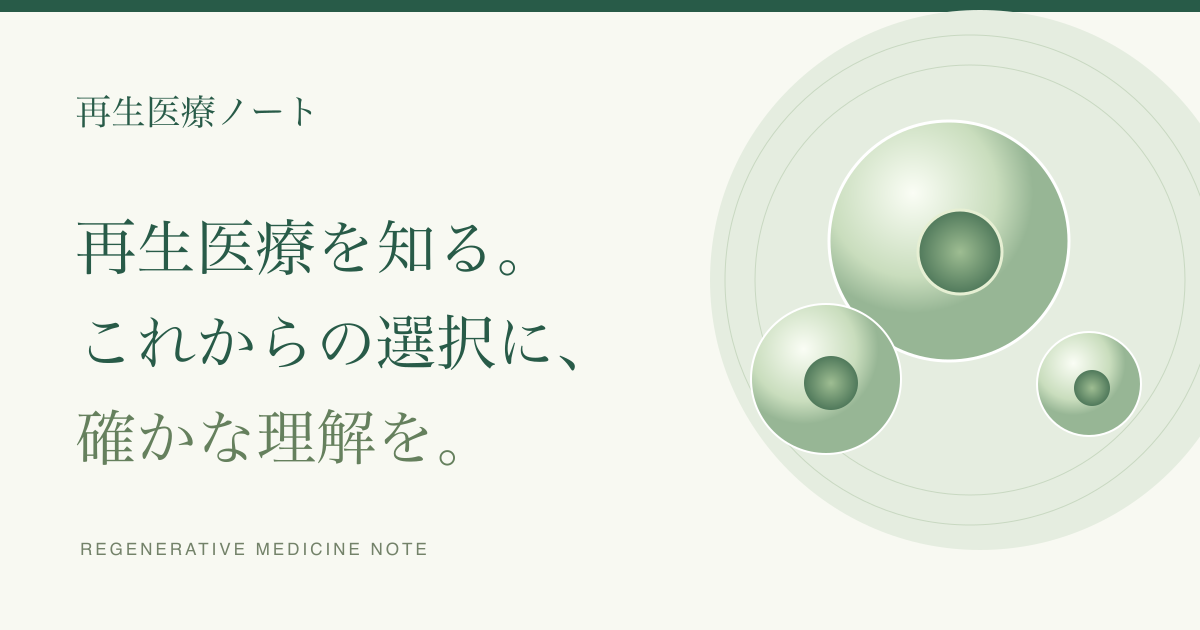
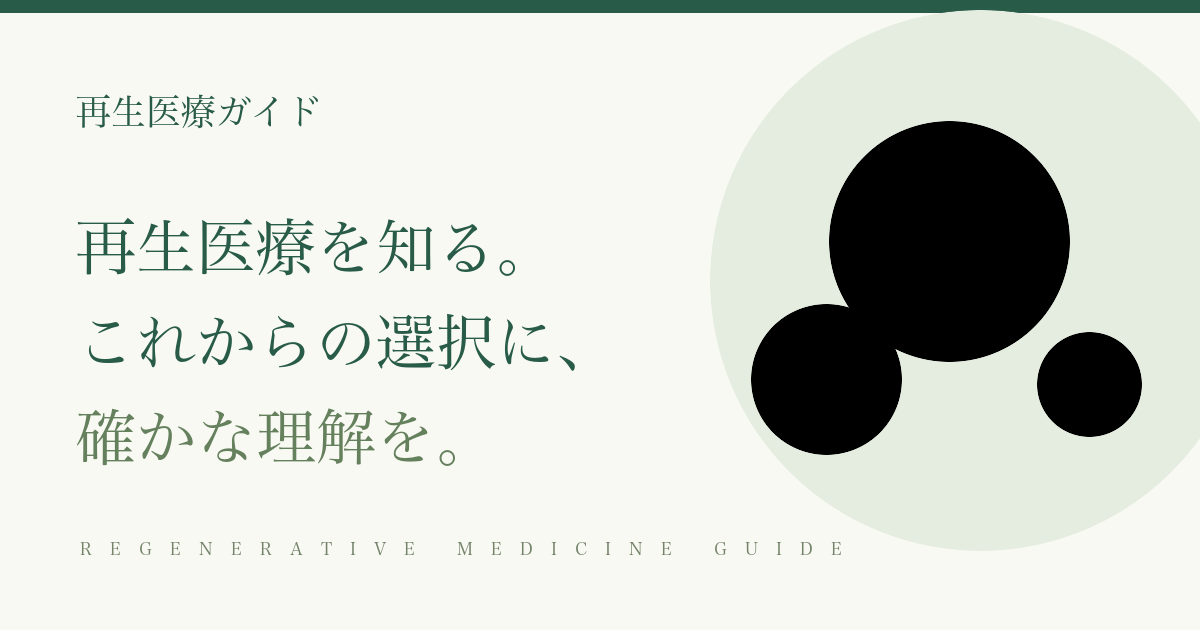
Rename site to regenerative medicine guide

diff --git a/src/content/locales.ts b/src/content/locales.ts
@@ -33,9 +33,9 @@ export const localizedArticle: Record<"en" | "zh", LocalizedArticle> = {
 
 export const localizedShell = {
   en: {
-    logoName: "Regenerative Medicine Note", logoAria: "Regenerative Medicine Note home", tagline: "Clearer information for your next medical decision.", preview: "Preview · manuscripts are awaiting medical review", promise: "One careful step at a time.", editorial: "Editorial policy", supervision: "Medical review", search: "Find articles", searchAria: "Find articles", home: "Home", about: "About this site", basics: "The basics", stemCells: "Stem cells", treatment: "Considering treatment", research: "Research & news", menu: "Open menu", guide: "Getting started", glossary: "Glossary", faq: "FAQ", safety: "Safety", regulation: "Rules & systems", advertising: "Advertising", terms: "Terms of use", privacy: "Privacy policy", disclaimer: "Important notice", contact: "Contact", updates: "Updates", corrections: "Corrections & updates", citations: "Citations & reuse", accessibility: "Accessibility", siteGuide: "Site guide", footerLead: "Understanding comes before choice.\nA careful note connecting regenerative medicine with people.", footerDisclaimer: "This site provides general information and is not a substitute for diagnosis or treatment. Please consult a qualified healthcare professional.", copyright: "KNOWLEDGE FOR YOUR NEXT STEP.",
+    logoName: "Regenerative Medicine Guide", logoAria: "Regenerative Medicine Guide home", tagline: "Clearer information for your next medical decision.", preview: "Preview · manuscripts are awaiting medical review", promise: "One careful step at a time.", editorial: "Editorial policy", supervision: "Medical review", search: "Find articles", searchAria: "Find articles", home: "Home", about: "About this site", basics: "The basics", stemCells: "Stem cells", treatment: "Considering treatment", research: "Research & news", menu: "Open menu", guide: "Getting started", glossary: "Glossary", faq: "FAQ", safety: "Safety", regulation: "Rules & systems", advertising: "Advertising", terms: "Terms of use", privacy: "Privacy policy", disclaimer: "Important notice", contact: "Contact", updates: "Updates", corrections: "Corrections & updates", citations: "Citations & reuse", accessibility: "Accessibility", siteGuide: "Site guide", footerLead: "Understanding comes before choice.\nA careful guide connecting regenerative medicine with people.", footerDisclaimer: "This site provides general information and is not a substitute for diagnosis or treatment. Please consult a qualified healthcare professional.", copyright: "KNOWLEDGE FOR YOUR NEXT STEP.",
   },
   zh: {
-    logoName: "再生医学笔记", logoAria: "再生医学笔记首页", tagline: "为下一步医疗决定提供清晰的信息。", preview: "预览版 · 原稿正在等待医学审核", promise: "一步一步，谨慎理解。", editorial: "编辑方针", supervision: "医学审核", search: "查找文章", searchAria: "查找文章", home: "首页", about: "关于本网站", basics: "再生医学基础", stemCells: "认识干细胞", treatment: "考虑治疗时", research: "研究与新闻", menu: "打开菜单", guide: "入门指南", glossary: "术语表", faq: "常见问题", safety: "安全性", regulation: "制度与法规", advertising: "广告刊登", terms: "使用条款", privacy: "隐私政策", disclaimer: "重要说明", contact: "联系我们", updates: "更新信息", corrections: "勘误与更新", citations: "引用与转载", accessibility: "无障碍", siteGuide: "网站地图", footerLead: "充分了解，是做出选择的第一步。\n连接再生医学与每个人的谨慎笔记。", footerDisclaimer: "本网站提供一般性信息，不能替代诊断或治疗。涉及个人医疗决定时，请咨询有资质的医疗专业人员。", copyright: "KNOWLEDGE FOR YOUR NEXT STEP.",
+    logoName: "再生医学指南", logoAria: "再生医学指南首页", tagline: "为下一步医疗决定提供清晰的信息。", preview: "预览版 · 原稿正在等待医学审核", promise: "一步一步，谨慎理解。", editorial: "编辑方针", supervision: "医学审核", search: "查找文章", searchAria: "查找文章", home: "首页", about: "关于本网站", basics: "再生医学基础", stemCells: "认识干细胞", treatment: "考虑治疗时", research: "研究与新闻", menu: "打开菜单", guide: "入门指南", glossary: "术语表", faq: "常见问题", safety: "安全性", regulation: "制度与法规", advertising: "广告刊登", terms: "使用条款", privacy: "隐私政策", disclaimer: "重要说明", contact: "联系我们", updates: "更新信息", corrections: "勘误与更新", citations: "引用与转载", accessibility: "无障碍", siteGuide: "网站地图", footerLead: "充分了解，是做出选择的第一步。\n连接再生医学与每个人的谨慎指南。", footerDisclaimer: "本网站提供一般性信息，不能替代诊断或治疗。涉及个人医疗决定时，请咨询有资质的医疗专业人员。", copyright: "KNOWLEDGE FOR YOUR NEXT STEP.",
   },
 } as const;

diff --git a/src/components/localized-info.tsx b/src/components/localized-info.tsx
@@ -11,6 +11,6 @@ export function infoTitleFor(locale: SiteLocale, slug: InfoSlug) { return labels
 export function LocalizedInfo({ locale, slug }: { locale: SiteLocale; slug: InfoSlug }) {
   const en = locale === "en";
   const title = labels[locale][slug];
-  const sections = en ? [["Purpose and scope", "This page explains how Regenerative Medicine Note prepares and presents information about regenerative medicine and stem cells.", "Medical information can change. We distinguish general education from personal diagnosis or treatment advice."], ["Evidence and transparency", "Editorial manuscripts identify evidence, limitations, uncertainty, and the questions a reader may wish to ask a healthcare professional.", "Advertising and editorial decisions are kept separate. Any future sponsorship will be labelled clearly."], ["Reader safety", "Do not begin, stop, or change treatment based only on this website. Discuss personal circumstances with a qualified healthcare professional and check current official sources.", "If you notice an error or a wording that could cause misunderstanding, please contact the editorial team."]] : [["目的与范围", "本页面说明“再生医学笔记”如何整理和呈现再生医学与干细胞相关信息。", "医学信息可能发生变化。我们会区分一般性知识与个人诊断、治疗建议。"], ["证据与透明度", "编辑原稿会说明证据、局限性、不确定性，以及读者可以向医疗专业人员询问的问题。", "广告与编辑决定分开管理。今后如有赞助，会清楚标明。"], ["读者安全", "不要仅根据本网站开始、停止或改变治疗。涉及个人情况时，请咨询有资质的医疗专业人员，并确认最新官方资料。", "如果发现错误或可能造成误解的表述，请联系编辑团队。"]];
+  const sections = en ? [["Purpose and scope", "This page explains how Regenerative Medicine Guide prepares and presents information about regenerative medicine and stem cells.", "Medical information can change. We distinguish general education from personal diagnosis or treatment advice."], ["Evidence and transparency", "Editorial manuscripts identify evidence, limitations, uncertainty, and the questions a reader may wish to ask a healthcare professional.", "Advertising and editorial decisions are kept separate. Any future sponsorship will be labelled clearly."], ["Reader safety", "Do not begin, stop, or change treatment based only on this website. Discuss personal circumstances with a qualified healthcare professional and check current official sources.", "If you notice an error or a wording that could cause misunderstanding, please contact the editorial team."]] : [["目的与范围", "本页面说明“再生医学指南”如何整理和呈现再生医学与干细胞相关信息。", "医学信息可能发生变化。我们会区分一般性知识与个人诊断、治疗建议。"], ["证据与透明度", "编辑原稿会说明证据、局限性、不确定性，以及读者可以向医疗专业人员询问的问题。", "广告与编辑决定分开管理。今后如有赞助，会清楚标明。"], ["读者安全", "不要仅根据本网站开始、停止或改变治疗。涉及个人情况时，请咨询有资质的医疗专业人员，并确认最新官方资料。", "如果发现错误或可能造成误解的表述，请联系编辑团队。"]];
   return <div className="container inner-page localized-article"><div className="page-heading"><span className="eyebrow">{en ? "INFORMATION" : "信息"}</span><h1>{title}</h1><p>{en ? "A transparent guide to how this medical information site is operated." : "关于本医疗信息网站运营方式的透明说明。"}</p></div><div className="prose">{sections.map(([heading, first, second]) => <section key={heading}><h2>{heading}</h2><p>{first}</p><p>{second}</p></section>)}</div><div className="policy-callout"><h2>{en ? "Related pages" : "相关页面"}</h2><p><Link href={`/${locale}/articles/`}>{en ? "Browse translated articles" : "浏览中文文章"} →</Link></p><p><Link href={`/${locale}/`}>{en ? "Back to the home page" : "返回首页"} →</Link></p></div></div>;
 }

diff --git a/src/components/site-shell.tsx b/src/components/site-shell.tsx
@@ -22,13 +22,13 @@ function localizedHomePath(locale: SiteLocale | "ja") {
 export function Logo({ locale = "ja" }: { locale?: SiteLocale | "ja" }) {
   const copy = locale === "ja" ? null : localizedShell[locale];
   return (
-    <Link href={localizedHomePath(locale)} className={`logo ${locale === "en" ? "logo-en" : locale === "zh" ? "logo-zh" : ""}`} aria-label={copy?.logoAria || "再生医療ノート ホーム"}>
+    <Link href={localizedHomePath(locale)} className={`logo ${locale === "en" ? "logo-en" : locale === "zh" ? "logo-zh" : ""}`} aria-label={copy?.logoAria || "再生医療ガイド ホーム"}>
       <span className="logo-mark">
         <Icon name="cells" size={32} />
       </span>
       <span>
-        {copy ? copy.logoName : <>再生医療<span className="logo-light">ノート</span></>}
-        <small>REGENERATIVE MEDICINE NOTE</small>
+        {copy ? copy.logoName : <>再生医療<span className="logo-light">ガイド</span></>}
+        <small>REGENERATIVE MEDICINE GUIDE</small>
       </span>
     </Link>
   );
@@ -79,7 +79,7 @@ export function Footer() {
         <div className="footer-main">
           <div>
             <Logo locale={locale} />
-            <p>{copy ? copy.footerLead.split("\n").map((line) => <span key={line}>{line}<br /></span>) : <>知ることから、はじまる選択。<br />再生医療とあなたをつなぐ、情報のノート。</>}</p>
+            <p>{copy ? copy.footerLead.split("\n").map((line) => <span key={line}>{line}<br /></span>) : <>知ることから、はじまる選択。<br />再生医療とあなたをつなぐ、情報ガイド。</>}</p>
           </div>
           <div className="footer-links">
             <Link href={path("guide")}>{copy?.guide || "はじめての方へ"}</Link><Link href={path("glossary")}>{copy?.glossary || "用語集"}</Link><Link href={path("faq")}>{copy?.faq || "よくある質問"}</Link><Link href={path("safety")}>{copy?.safety || "安全性の考え方"}</Link><Link href={path("regulation")}>{copy?.regulation || "制度と法律"}</Link><Link href={path("about")}>{copy?.about || "運営について"}</Link><Link href={path("editorial-policy")}>{copy?.editorial || "編集方針"}</Link><Link href={path("supervision")}>{copy?.supervision || "医師監修について"}</Link><Link href={path("advertising")}>{copy?.advertising || "広告掲載について"}</Link><Link href={path("terms")}>{copy?.terms || "利用規約"}</Link><Link href={path("privacy")}>{copy?.privacy || "プライバシーポリシー"}</Link><Link href={path("disclaimer")}>{copy?.disclaimer || "利用上の注意"}</Link><Link href={path("corrections")}>{copy?.corrections || "訂正・更新の方針"}</Link><Link href={path("citations")}>{copy?.citations || "引用・転載"}</Link><Link href={path("accessibility")}>{copy?.accessibility || "アクセシビリティ"}</Link><Link href={path("site-guide")}>{copy?.siteGuide || "サイトマップ"}</Link><Link href={path("updates")}>{copy?.updates || "更新情報"}</Link><Link href={path("contact")}>{copy?.contact || "お問い合わせ"}</Link>

diff --git a/src/app/globals.css b/src/app/globals.css
@@ -103,7 +103,15 @@ svg {
   font-weight: 600;
   line-height: 1.3;
   white-space: nowrap;
+  min-width: 0;
+  flex-shrink: 1;
 }
+.logo > span:last-child { min-width: 0; }
+.logo-en {
+  white-space: normal;
+  line-height: 1.15;
+}
+.logo-en > span:last-child { overflow-wrap: anywhere; }
 .logo-mark {
   display: flex;
   align-items: center;
@@ -131,6 +139,8 @@ svg {
   gap: 26px;
   margin-left: auto;
   font-size: 11px;
+  min-width: 0;
+  flex-shrink: 1;
 }
 .header-links span {
   margin-left: 8px;
@@ -261,12 +271,14 @@ svg {
 }
 .hero-visual {
   position: relative;
-  align-self: stretch;
-  min-height: 405px;
+  align-self: start;
+  width: 100%;
+  aspect-ratio: 640 / 440;
   margin-top: 8px;
   overflow: hidden;
 }
 .hero-art {
+  display: block;
   height: 100%;
   width: 100%;
   object-fit: cover;
@@ -473,6 +485,7 @@ svg {
   overflow: hidden;
 }
 .feature-art .cell-art {
+  display: block;
   width: 100%;
   height: 100%;
   object-fit: cover;
@@ -543,6 +556,7 @@ svg {
   background: #d9e7dd;
 }
 .article-image .cell-art {
+  display: block;
   width: 100%;
   height: 100%;
   object-fit: cover;
@@ -1109,7 +1123,7 @@ svg {
     font-size: 46px;
   }
   .hero-visual {
-    min-height: 445px;
+    aspect-ratio: 640 / 440;
   }
   .hero-copy > p {
     font-size: 13px;
@@ -1143,7 +1157,7 @@ svg {
     font-size: 35px;
   }
   .hero-visual {
-    min-height: 370px;
+    aspect-ratio: 640 / 440;
   }
   .hero-floating {
     padding: 14px;
@@ -1333,8 +1347,8 @@ svg {
     font-size: 9px;
   }
   .hero-visual {
-    min-height: 0;
-    height: 310px;
+    height: auto;
+    aspect-ratio: 640 / 440;
     width: 100%;
     max-width: 480px;
     justify-self: center;
@@ -1648,7 +1662,7 @@ svg {
     font-size: 30px;
   }
   .hero-visual {
-    height: 270px;
+    height: auto;
   }
   .article-card.compact {
     grid-template-columns: 110px 1fr;

diff --git a/src/content/pages.ts b/src/content/pages.ts
@@ -4,12 +4,12 @@ export const infoPages = [
     title: "このサイトについて",
     en: "ABOUT US",
     description:
-      "知ることから、はじまる選択。再生医療ノートの目的と運営について。",
+      "知ることから、はじまる選択。再生医療ガイドの目的と運営について。",
     sections: [
       {
-        title: "再生医療とあなたをつなぐ、情報のノート。",
+        title: "再生医療とあなたをつなぐ、情報ガイド。",
         paragraphs: [
-          "再生医療ノートは、再生医療・幹細胞について学びたい方のための情報メディアとして準備しています。基礎知識や研究の読み方、治療を検討するときの確認事項を、出典とともに整理することを目指します。",
+          "再生医療ガイドは、再生医療・幹細胞について学びたい方のための情報サイトとして準備しています。基礎知識や研究の読み方、治療を検討するときの確認事項を、出典とともに整理することを目指します。",
           "治療の効果を保証したり、特定の治療を一律に推奨したりするサイトではありません。",
         ],
       },

diff --git a/src/lib/site.ts b/src/lib/site.ts
@@ -19,10 +19,10 @@ if (
   );
 }
 export const site = {
-  name: "再生医療ノート",
+  name: "再生医療ガイド",
   url: parsedUrl.origin,
   description:
-    "再生医療と幹細胞について、基礎知識から研究の読み方、治療を検討するときの確認事項まで。確かな情報とともに、一つずつ理解するための情報メディア。",
+    "再生医療と幹細胞について、基礎知識から研究の読み方、治療を検討するときの確認事項まで。確かな情報とともに、一つずつ理解するための情報ガイド。",
   contactEmail: process.env.NEXT_PUBLIC_CONTACT_EMAIL || "",
 };
 export function publicAsset(path: string) {

diff --git a/src/app/en/page.tsx b/src/app/en/page.tsx
@@ -1,4 +1,4 @@
 import { pageMetadata } from "@/lib/site";
 import { LocalizedHome } from "@/components/localized-home";
-export const metadata = pageMetadata("Regenerative Medicine Note", "Careful, plain-language information about regenerative medicine and stem cells.", "/en/", false);
+export const metadata = pageMetadata("Regenerative Medicine Guide", "Careful, plain-language information about regenerative medicine and stem cells.", "/en/", false);
 export default function EnglishHome() { return <LocalizedHome locale="en" />; }

diff --git a/src/app/zh/page.tsx b/src/app/zh/page.tsx
@@ -1,4 +1,4 @@
 import { pageMetadata } from "@/lib/site";
 import { LocalizedHome } from "@/components/localized-home";
-export const metadata = pageMetadata("再生医学笔记", "关于再生医学和干细胞的清晰、谨慎的基础信息。", "/zh/", false);
+export const metadata = pageMetadata("再生医学指南", "关于再生医学和干细胞的清晰、谨慎的基础信息。", "/zh/", false);
 export default function ChineseHome() { return <LocalizedHome locale="zh" />; }

diff --git a/README.md b/README.md
@@ -1,4 +1,4 @@
-# 再生医療ノート（仮称）
+# 再生医療ガイド（仮称）
 
 再生医療・幹細胞に関する日本語ポータルのNext.js静的サイト雛形です。スマートフォン対応のトップ、4カテゴリ、4本のサンプル記事、記事検索、編集・監修方針、運営・広告・問い合わせ案内を実装しています。
 

diff --git a/docs/PLAN.md b/docs/PLAN.md
@@ -1,4 +1,4 @@
-# 再生医療ノート：全体計画（初期案）
+# 再生医療ガイド：全体計画（初期案）
 
 作成日：2026年9月19日。サイト名は仮称です。以下の期間・記事数は企画上の目安で、検索順位・集客・収益を保証するものではありません。
 
